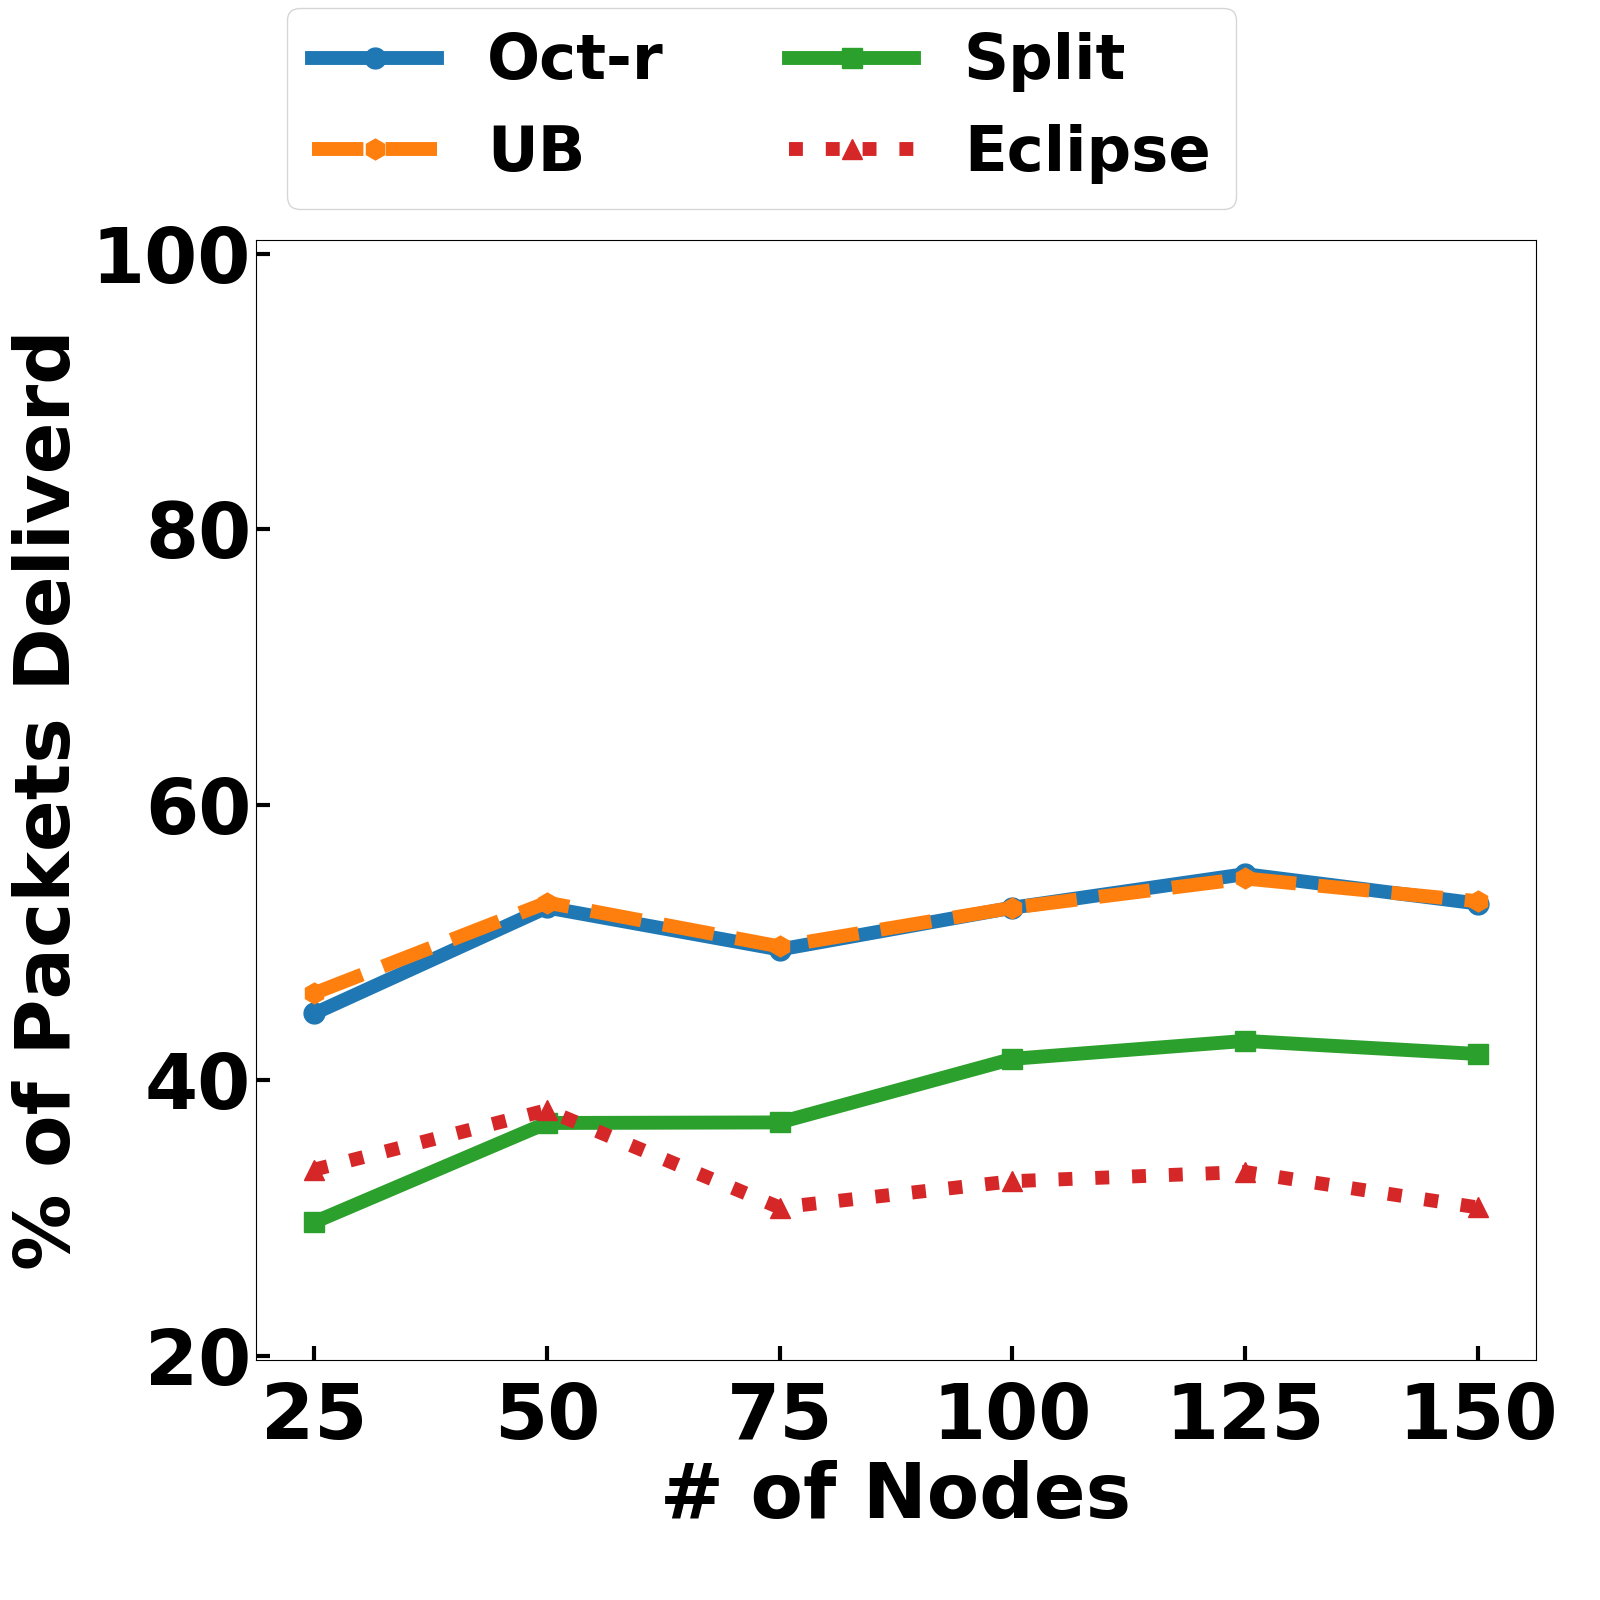
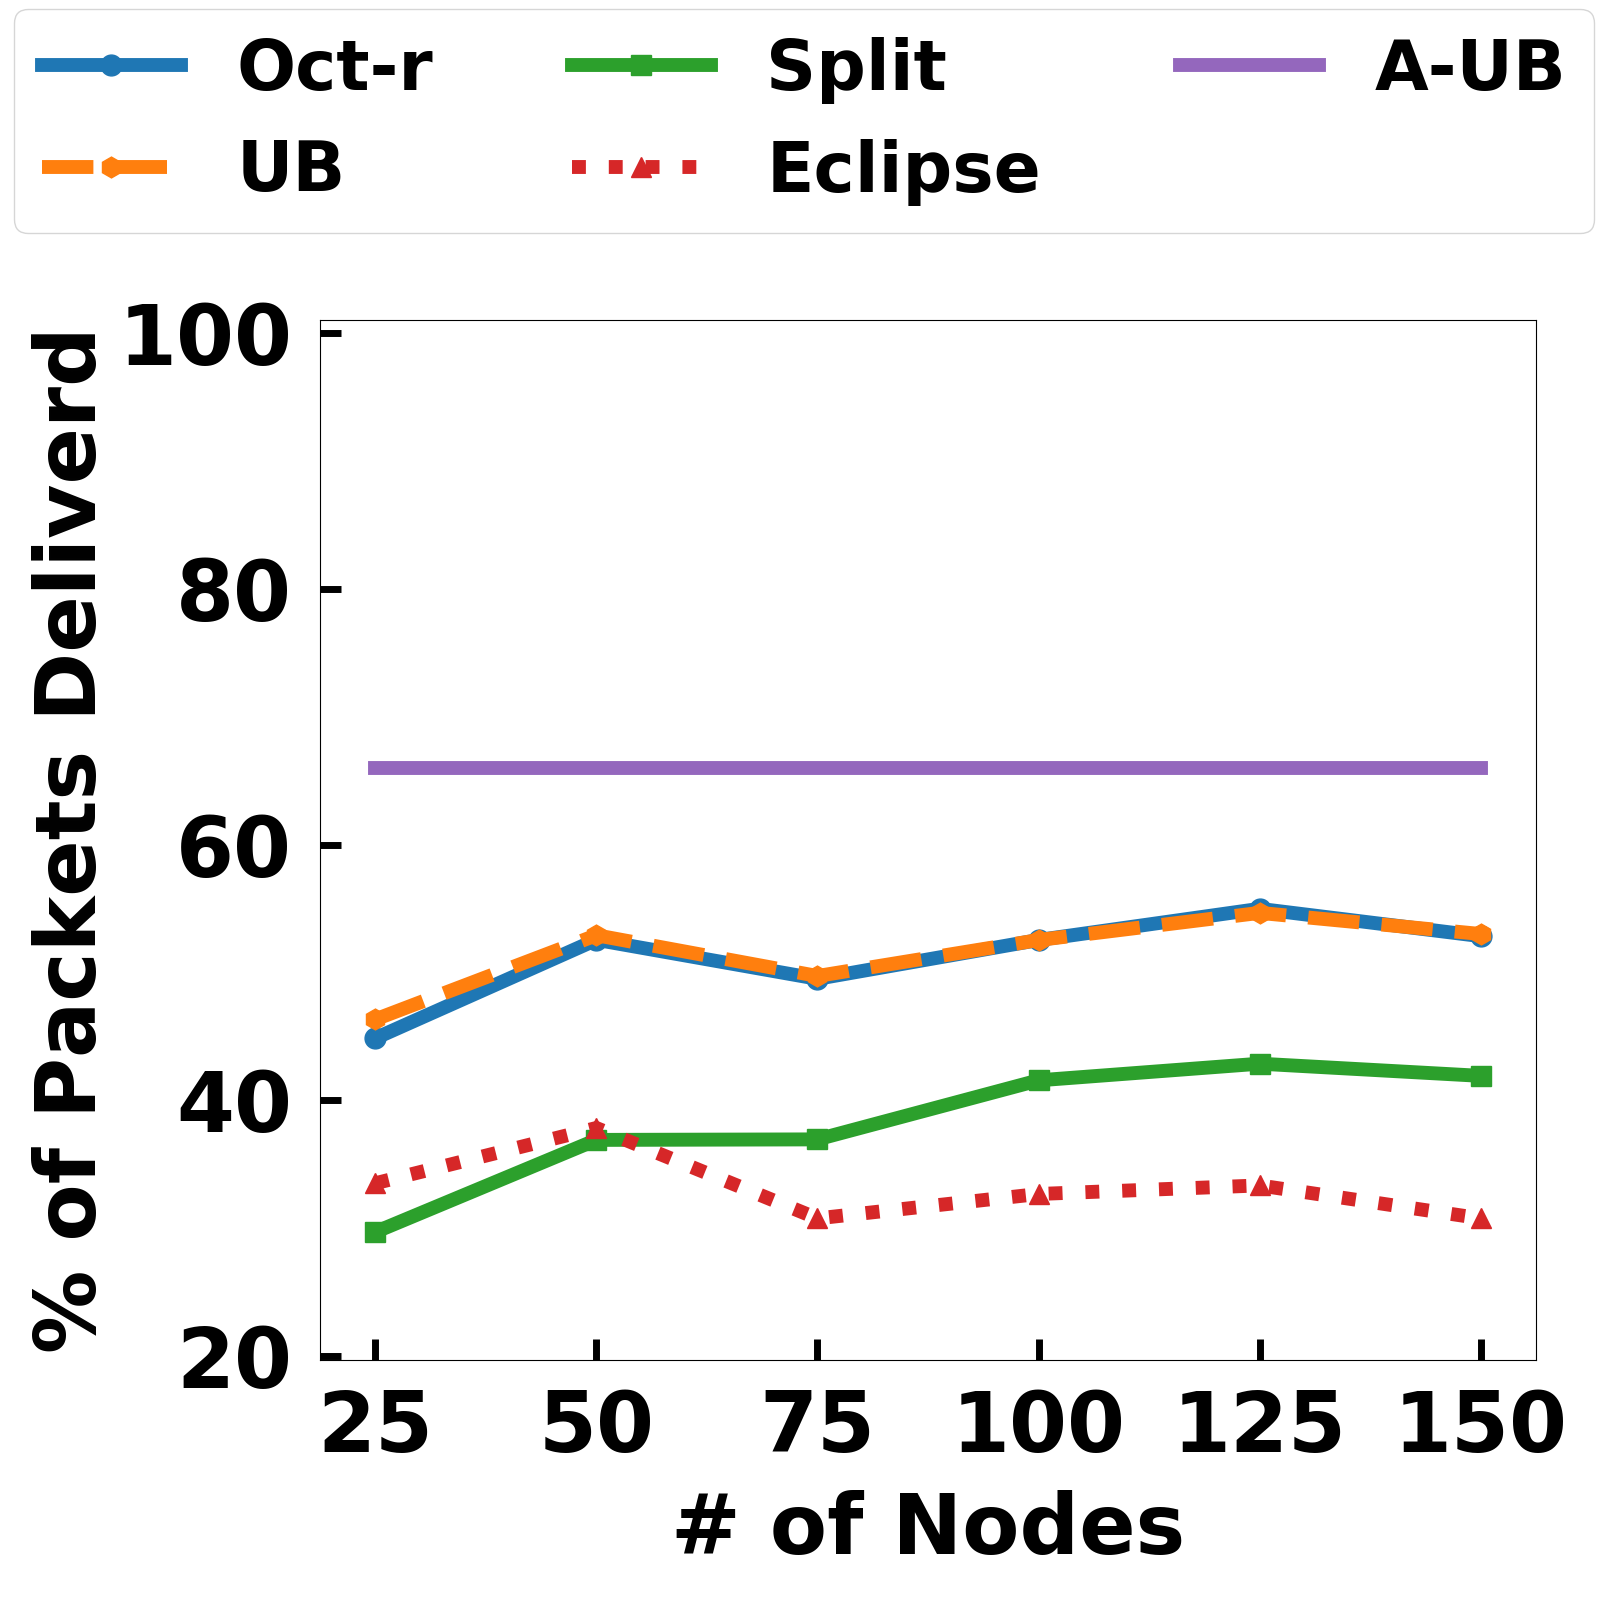
add absolute upper bound, and some same updates on fonts

diff --git a/plots.py b/plots.py
@@ -29,7 +29,7 @@ def getMetric(inpt, output, metric = 'percent_packets_delivered'):
 	raise Exception('Unexpected metric: ' + str(metric))
 
 
-def plot_line(table, method, filename=None, x_label=None, x_log=False, y_label=None):
+def plot_line(table, method, filename=None, x_label=None, x_log=False, y_label=None, absolute_ub=False):
 	'''
 	Args:
 		table: the same table used by function tabulate.tabulate()
@@ -38,7 +38,7 @@ def plot_line(table, method, filename=None, x_label=None, x_log=False, y_label=N
 	linestyles = ['-', '--', '-', ':', '--', '-.']  # line styles
 	
 	fig, ax = plt.subplots(figsize=(16, 16))
-	fig.subplots_adjust(left=0.16, right=0.96, top=0.85, bottom=0.15)
+	fig.subplots_adjust(left=0.2, right=0.96, top=0.8, bottom=0.15)
 	X  = [row[0] for row in table]
 	if x_log:
 		X = np.log10((np.array(X, float)/DEFAULT_WINDOW_SIZE))
@@ -50,18 +50,27 @@ def plot_line(table, method, filename=None, x_label=None, x_log=False, y_label=N
 	for i in range(0, num):
 		plt.plot(X, Y[i], linestyle=linestyles[i], marker=markers[i], label=method[i])
 
+	legend_num_column = 2
+	bbox_to_anchor = (0, 1)
+	if absolute_ub and y_label == '% of Packets Deliverd':
+		y = [66 for _ in X]
+		plt.plot(X, y, label='A-UB')
+		legend_num_column = 3
+		bbox_to_anchor = (-0.28, 1.05)
+
 	plt.xticks(X)
-	if x_log:
+	if x_log:       # log scale on x axis
 		plt.xticks(np.arange(-4, 0, 1), ['$10^{-4}$', '$10^{-3}$', '$10^{-2}$', '$10^{-1}$'], )
 		plt.xlim([-4, -0.9])
+
 	y_min = np.min(np.min(table, 0)[1:]) - 10
 	y_max = 101
 	plt.ylim([y_min, y_max])
-	plt.legend(bbox_to_anchor=(0, 1), loc='lower left', ncol=2, fontsize=45)
-	ax.tick_params(direction='in', length=10, width=3)
-	ax.tick_params(axis='x', pad=15)
+	plt.legend(bbox_to_anchor=bbox_to_anchor, loc='lower left', ncol=legend_num_column, fontsize=50)
+	ax.tick_params(direction='in', length=15, width=5)
+	ax.tick_params(pad=20)
 	if x_label:
-		ax.set_xlabel(x_label)
+		ax.set_xlabel(x_label, labelpad=15)
 	if y_label:
 		ax.set_ylabel(y_label)
 	if filename:
@@ -91,7 +100,7 @@ def plot1_1(path):
 		print metric[i]
 		print tabulate.tabulate(print_table, headers = ['NUN_NODE'] + methods)
 		print ''
-		plot_line(print_table, methods_, filename='{}/{}-{}'.format(path, metric[i], 'vary_num_node'), x_label='# of Nodes', y_label=metric_[i])
+		plot_line(print_table, methods_, filename='{}/{}-{}'.format(path, metric[i], 'vary_num_node'), x_label='# of Nodes', y_label=metric_[i], absolute_ub=True)
 
 
 def plot1_2(path):
@@ -114,7 +123,7 @@ def plot1_2(path):
 		print metric[i]
 		print tabulate.tabulate(print_table, headers = ['DELTA'] + methods)
 		print ''
-		plot_line(print_table, methods_, filename='{}/{}-{}'.format(path, metric[i], 'vary_delta'), x_label='Delta/WindowSize', x_log=True, y_label=metric_[i])
+		plot_line(print_table, methods_, filename='{}/{}-{}'.format(path, metric[i], 'vary_delta'), x_label='Delta/WindowSize', x_log=True, y_label=metric_[i], absolute_ub=True)
 
 
 def plot1_3(path):
@@ -137,7 +146,7 @@ def plot1_3(path):
 		print metric[i]
 		print tabulate.tabulate(print_table, headers = ['CS'] + methods)
 		print ''
-		plot_line(print_table, methods_, filename='{}/{}-{}'.format(path, metric[i], 'skewness'), x_label='% of traffic carry by small flows', y_label=metric_[i])
+		plot_line(print_table, methods_, filename='{}/{}-{}'.format(path, metric[i], 'skewness'), x_label='% of traffic by small flows', y_label=metric_[i], absolute_ub=True)
 
 
 def plot1_4(path):
@@ -160,7 +169,7 @@ def plot1_4(path):
 		print metric[i]
 		print tabulate.tabulate(print_table, headers = ['NL+NS'] + methods)
 		print ''
-		plot_line(print_table, methods_, filename='{}/{}-{}'.format(path, metric[i], 'sparsity'), x_label='flows per node', y_label=metric_[i])
+		plot_line(print_table, methods_, filename='{}/{}-{}'.format(path, metric[i], 'sparsity'), x_label='flows per node', y_label=metric_[i], absolute_ub=True)
 
 
 def plot2(path):
@@ -279,7 +288,7 @@ def plot5(path):
 
 if __name__ == '__main__':
 	
-	plt.rcParams['font.size'] = 55
+	plt.rcParams['font.size'] = 60
 	plt.rcParams['font.weight'] = 'bold'
 	plt.rcParams['axes.labelweight'] = 'bold'
 	plt.rcParams['lines.linewidth'] = 10
@@ -287,11 +296,11 @@ if __name__ == '__main__':
 
 	path = 'data/6-22'
 
-	# plot1_1(path)
-	# plot1_2(path)
-	# plot1_3(path)
-	# plot1_4(path)
+	plot1_1(path)
+	plot1_2(path)
+	plot1_3(path)
+	plot1_4(path)
 	# plot2(path)
 	# plot3(path)
 	# plot4(path)
-	plot5(path)
+	# plot5(path)
